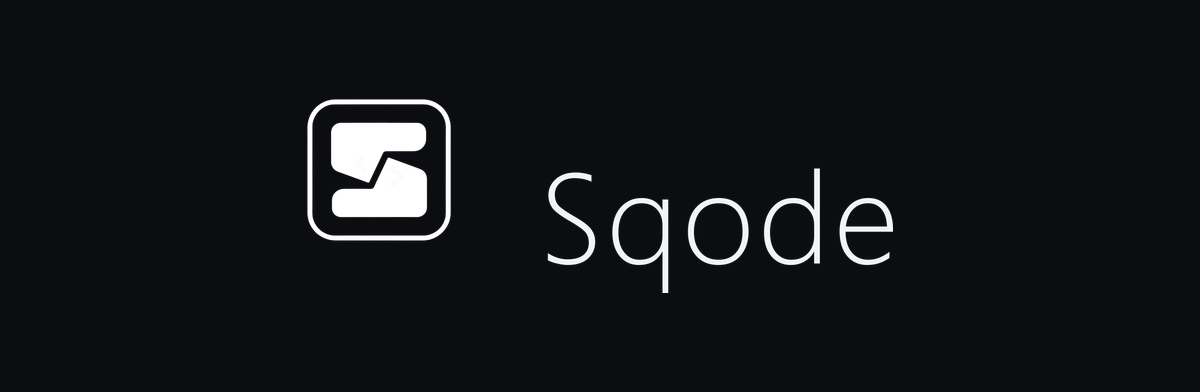
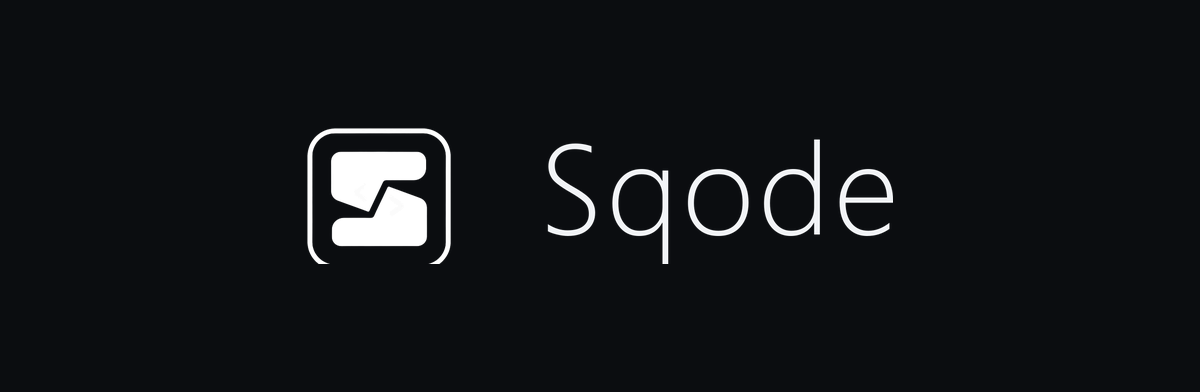
brand(desktop): 放大应用/托盘图标并居中安装器品牌条
- 将母版 SVG viewBox 裁剪到 180 180 660 660，glyph 占比约 93%，桌面快捷方式、任务栏与托盘图标视觉放大约一倍（矢量无损）

- 从裁剪后的源重生成 icon-windows.ico（7 帧 16..256）与 tray-windows.ico（9 帧 16..256）

- 重生成安装器品牌条 brand.png/2x、brand-dark/2x，图标按 bbox 光学下移与 Sqode 字标垂直对齐

- 新增 scripts/gen-app-icon.ts 与 render:app-icon npm 脚本，使 icon-windows.ico 可复现重生成

diff --git a/apps/desktop/scripts/gen-app-icon.ts b/apps/desktop/scripts/gen-app-icon.ts
@@ -1,0 +1,25 @@
+/** Generate the app icon ICO from the cropped SVG. Run via tsx. */
+import sharp from 'sharp'
+import { readFileSync, writeFileSync } from 'node:fs'
+import { fileURLToPath } from 'node:url'
+import { resolve } from 'node:path'
+import { packIco } from './render-tray-icon.ts'
+
+const svg = readFileSync(fileURLToPath(new URL('../resources/icon-windows.svg', import.meta.url)))
+const sizes = [16, 24, 32, 48, 64, 128, 256] as const
+
+async function main(): Promise<void> {
+  const entries = []
+  for (const size of sizes) {
+    const png = await sharp(svg, { density: 72 * size / 660 })
+      .resize(size, size)
+      .png()
+      .toBuffer()
+    entries.push({ size, png })
+  }
+  const ico = packIco(entries)
+  writeFileSync(fileURLToPath(new URL('../resources/icon-windows.ico', import.meta.url)), ico)
+  console.info(`app icon: wrote ${entries.length} frames: ${entries.map(e => String(e.size)).join(', ')}`)
+}
+
+if (process.argv[1] !== undefined && import.meta.filename === resolve(process.argv[1])) await main()
